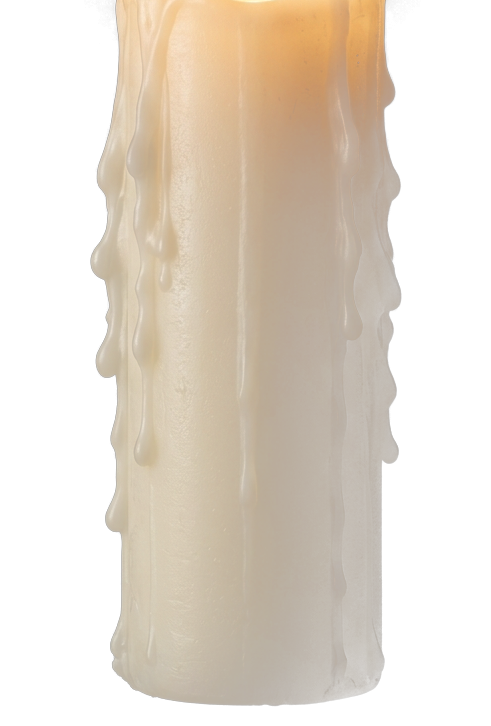
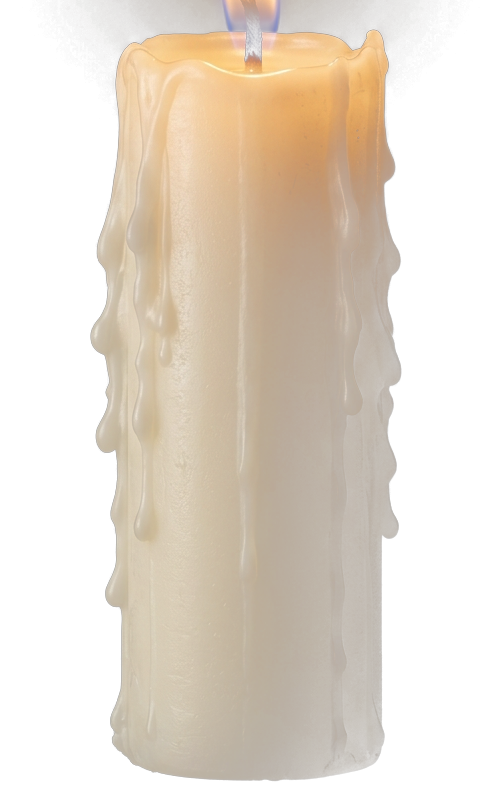
auto-commit for d4850699-cdd7-4e85-a4d3-66533160c4d0

diff --git a/frontend/src/components/exercises/CandleFlame.jsx b/frontend/src/components/exercises/CandleFlame.jsx
@@ -106,7 +106,7 @@ export const CandleFlame = ({ isPlaying }) => {
           mixBlendMode: 'screen',
         }}
       >
-        {/* Static candle body (wax + drips) */}
+        {/* Static candle body (wick + wax pool + wax body + drips) */}
         <img
           src={candleBodyLayer}
           alt=""
@@ -116,11 +116,11 @@ export const CandleFlame = ({ isPlaying }) => {
             position: 'absolute',
             left: 0,
             width: '100%',
-            top: '38%',
-            height: '62%',
+            top: '31.6%',
+            height: '68.4%',
           }}
         />
-        {/* Animated flame layer (flame + wick tip + halo + tiny sparks) */}
+        {/* Animated flame layer (flame only — no wick, no wax pool) */}
         <img
           src={candleFlameLayer}
           alt=""
@@ -131,8 +131,10 @@ export const CandleFlame = ({ isPlaying }) => {
             left: 0,
             width: '100%',
             top: 0,
-            height: '42.27%',
-            transformOrigin: '50% 92%', // pivot near the wick base
+            height: '34.16%',
+            // Pivot right at the wick tip (bottom-center of the flame layer) so
+            // rotation looks like the flame swaying atop the wick, not floating.
+            transformOrigin: '50% 96%',
             animation: isPlaying
               ? 'candle-flame-flicker 3s ease-in-out infinite'
               : 'none',
